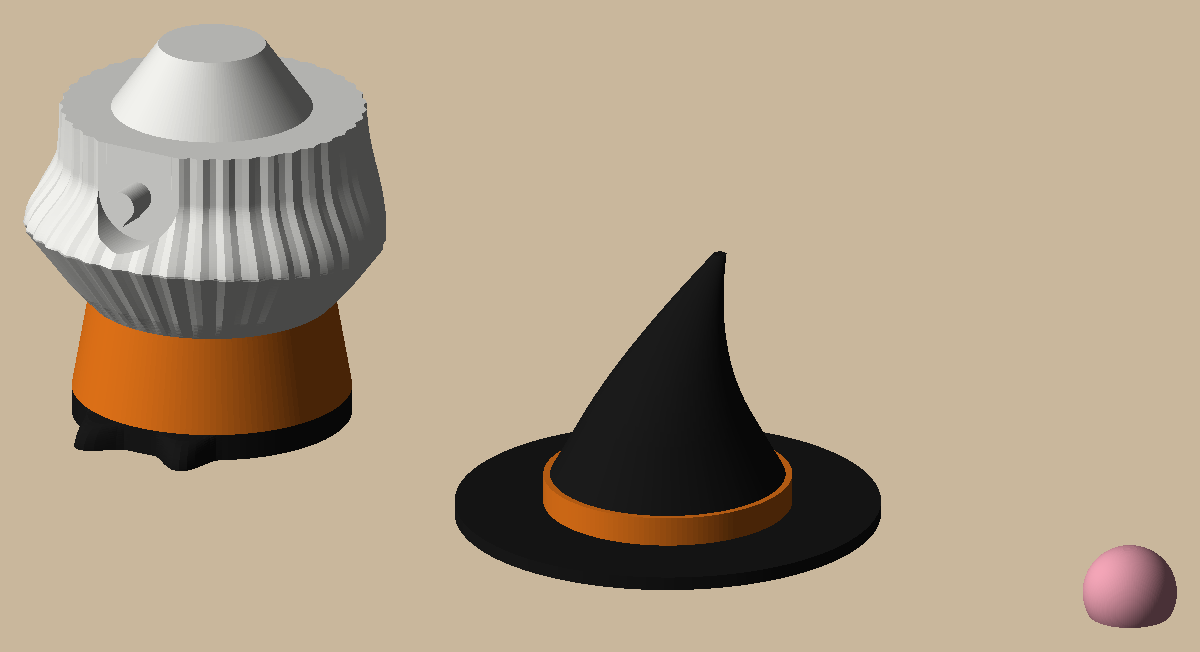
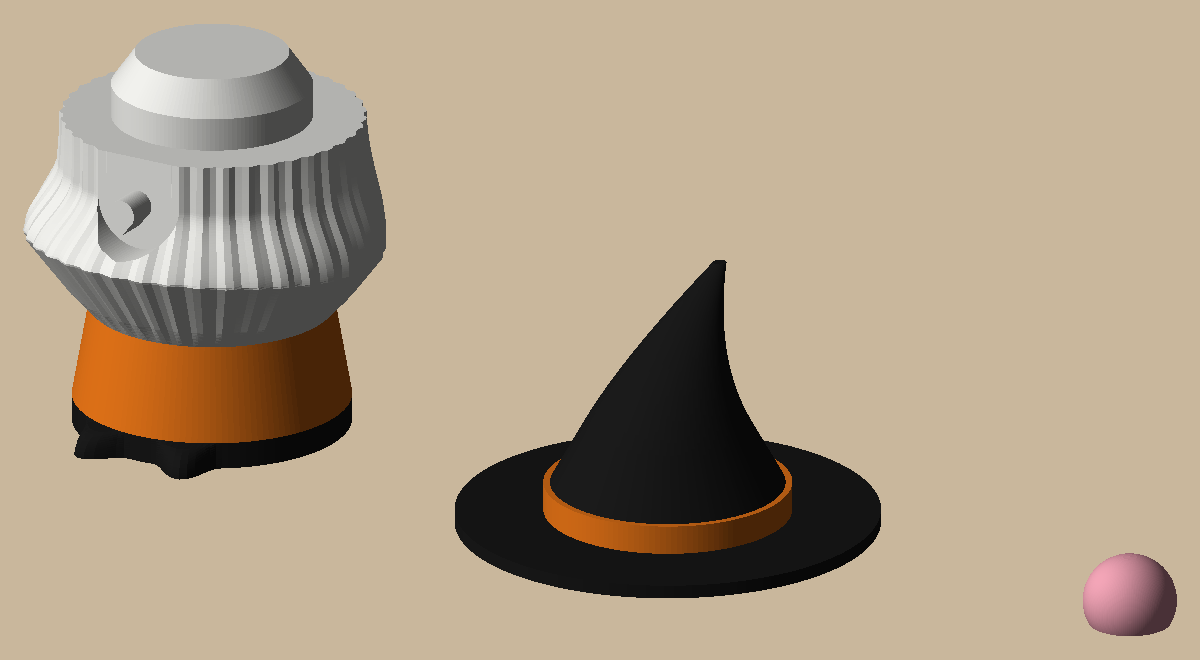
Halloween gnome: hat grips on a straight collar, chamfered hole mouths (pre-print review)

diff --git a/examples/halloween-gnome/halloween_gnome/gnome.py b/examples/halloween-gnome/halloween_gnome/gnome.py
@@ -164,16 +164,23 @@ def peg(p: Params) -> Mesh:
 
 def head(p: Params) -> Mesh:
     zs = levels(p.shoulder_h - 0.4, p.shoulder_h + p.head_h, p.dz)  # sunk into the shoulder: one solid
-    tan = math.tan(math.radians(p.head_angle))
-    return stack([circle(p.head_r - max(0.0, z - p.shoulder_h) * tan, z, p.ring) for z in zs], "head")
+    return stack([circle(min(p.head_r, socket_r(p, z - p.shoulder_h)), z, p.ring) for z in zs], "head")
+
+
+def mouth(p: Params, size, z0: float) -> list:
+    """The bottom rings of a hole whose mouth is on the bed: size(grow) is its section grown by grow, under the
+    bed at z0, on it, and back to size p.mouth_rise up."""
+    return [size(p.mouth_run * (1 - z0 / p.mouth_rise)), size(p.mouth_run), size(0.0)], [z0, 0.0, p.mouth_rise]
 
 
 def tree_hole(p: Params) -> Mesh:
     r = p.hole_d / 2
     tan = math.tan(math.radians(p.hole_roof))
     apex = p.hole_depth + r / tan
-    zs = np.r_[-0.5, levels(p.hole_depth, apex - p.dz, p.dz)]
-    return stack([circle(r - max(0.0, z - p.hole_depth) * tan, z, p.ring) for z in zs], "hole", (0, 0, apex))
+    sizes, zs = mouth(p, lambda g: r + g, -0.5)
+    rings = [circle(rr, z, p.ring) for rr, z in zip(sizes, zs)]
+    rings += [circle(r - (z - p.hole_depth) * tan, z, p.ring) for z in levels(p.hole_depth, apex - p.dz, p.dz)]
+    return stack(rings, "hole", (0, 0, apex))
 
 
 @lru_cache
@@ -203,13 +210,21 @@ def crown(p: Params, z: float) -> tuple[float, float]:
 
 
 def socket_r(p: Params, z: float) -> float:
-    return p.head_r - z * math.tan(math.radians(p.head_angle))
+    """The socket's radius z above the brim's underside (the head's, z above the shoulder): the collar, then the
+    cone."""
+    return p.head_r - max(0.0, z - p.head_collar) * math.tan(math.radians(p.head_angle))
+
+
+def socket_apex(p: Params) -> float:
+    return p.head_collar + p.head_r / math.tan(math.radians(p.head_angle))
 
 
 def socket(p: Params) -> Mesh:
-    apex = p.head_r / math.tan(math.radians(p.head_angle))
-    return stack([circle(socket_r(p, z), z, p.ring) for z in np.r_[-0.5, levels(0, apex - p.dz, p.dz)]],
-                 apex=(0, 0, apex))
+    apex = socket_apex(p)
+    sizes, zs = mouth(p, lambda g: p.head_r + g, -0.5)
+    rings = [circle(r, z, p.ring) for r, z in zip(sizes, zs)]
+    rings += [circle(socket_r(p, z), z, p.ring) for z in levels(p.head_collar, apex - p.dz, p.dz)]
+    return stack(rings, apex=(0, 0, apex))
 
 
 @lru_cache
@@ -241,7 +256,8 @@ def nose_hole(p: Params) -> Mesh:
     depth = p.peg_len + p.peg_room
     far = np.hypot(shape[:, 0], shape[:, 1]).max()  # the teardrop's point, from the round's centre
     rise = far / p.flare
-    rings = [np.c_[shape, np.full(len(shape), -0.5)]]
+    sizes, zs = mouth(p, lambda g: teardrop(p.peg_r + p.nose_fit / 2 + g, p.peg_angle), -0.5)
+    rings = [np.c_[s, np.full(len(s), z)] for s, z in zip(sizes, zs)]
     for z in levels(depth, depth + rise - p.dz, p.dz):
         rings.append(np.c_[shape * (1 - (z - depth) / rise), np.full(len(shape), z)])
     return stack(rings, apex=(0, 0, depth + rise))

diff --git a/examples/halloween-gnome/tests/test_gnome.py b/examples/halloween-gnome/tests/test_gnome.py
@@ -81,7 +81,7 @@ def test_tree_hole_is_half_an_inch_and_goes_up_to_its_roof():
 
 def test_hat_wall_round_the_socket():
     """The crown leans back; the socket stays inside it with p.hat_wall all round."""
-    for z in np.arange(P.brim_t + P.band_h, P.head_r / math.tan(math.radians(P.head_angle)), 0.2):
+    for z in np.arange(P.brim_t + P.band_h, gnome.socket_apex(P), 0.2):
         c, r = gnome.crown(P, z)
         assert r - abs(c) - gnome.socket_r(P, z) >= P.hat_wall, z
 
@@ -162,3 +162,31 @@ def test_slicer_prints_each_colour_band_once(tmp_path, name, bands):
     assert [r[0] for r in report["layers"]] == [(b,) for b in bands]
     top = {"body": P.shoulder_h + P.head_h, "hat": P.hat_h, "nose": P.nose_back + P.nose_r}[name]
     assert report["layers"][-1][2] + 1 == pytest.approx(top / P.printer.layer, abs=1)
+
+
+def test_hat_grips_on_a_straight_collar():
+    """A 35-degree cone can't hold by friction (tan 35 > PLA's ~0.3): the head and socket share a straight collar
+    p.head_collar tall at head_r, a press fit, and taper above it."""
+    head = gnome.head(P)
+    for z in (0.6, P.head_collar - 0.1):
+        probe = Pos(-20, -20, P.shoulder_h + z) * Box(40, 40, 0.01, align=MIN)
+        assert (head & probe).volume / 0.01 == pytest.approx(math.pi * P.head_r ** 2, rel=0.002)
+        assert gnome.socket_r(P, z) == pytest.approx(P.head_r)
+    assert gnome.socket_r(P, P.head_collar + 1) < P.head_r
+    assert P.head_collar >= 2.0
+
+
+def test_hole_mouths_are_chamfered():
+    """The first layer squishes out: every hole's mouth flares by p.mouth_run, closing to size p.mouth_rise up."""
+    z = 0.05
+    flare = 2 * P.mouth_run * (1 - (z + 0.1) / P.mouth_rise)  # the slab's top, where the hole is narrowest
+    hat, body, nose = Mesh.union(gnome.hat(P)), Mesh.union(gnome.body(P)), gnome.nose(P)
+    for m, size in ((hat, 2 * P.head_r), (body, P.hole_d), (nose, 2 * P.peg_r)):
+        assert hole_width(m, z) == pytest.approx(size + flare, abs=0.03)
+        assert hole_width(m, P.mouth_rise + 0.1) == pytest.approx(size, abs=0.03)
+
+
+def hole_width(m: Mesh, z: float) -> float:
+    """The gap across the axis in a slab from z to z + 0.1."""
+    pieces = sorted((m & slab(z)).solids(), key=lambda s: s.bounding_box().min.X)
+    return pieces[1].bounding_box().min.X - pieces[0].bounding_box().max.X

diff --git a/examples/halloween-gnome/halloween_gnome/params.py b/examples/halloween-gnome/halloween_gnome/params.py
@@ -43,7 +43,10 @@ class Params:
 
     head_r: float = 9.0  # the head cone at the shoulder: the hat's socket fits over it, no clearance
     head_h: float = 6.0
-    head_angle: float = 35.0  # deg from vertical, the head's sides and the socket's
+    head_angle: float = 35.0  # deg from vertical, the head's sides and the socket's, above...
+    head_collar: float = 3.0  # ... a straight collar at head_r that grips (a 35-degree cone alone slides off)
+    mouth_run: float = 0.3  # every hole's mouth on the bed flares out this much, closing to size mouth_rise up:
+    mouth_rise: float = 0.4  # the first layer's squish never makes it the tightest point of a fit
 
     # the hat (its own z: brim on the bed)
     brim_r: float = 19.0

diff --git a/examples/halloween-gnome/README.md b/examples/halloween-gnome/README.md
@@ -6,10 +6,12 @@ A 2" witch-hat gnome for the top of a mini Christmas tree: the tree's tip goes u
 prints in three pieces with no supports, then presses together, no glue:
 
 - **Body:** black boots, orange robe, white beard and hair (2 colour changes). The hole runs 18 mm up the middle.
-- **Hat:** printed brim down: black brim, orange band, black crooked crown (2 colour changes). Its cone socket
-  pushes down over the head.
+- **Hat:** printed brim down: black brim, orange band, black crooked crown (2 colour changes). Its socket
+  pushes down over the head and grips on a 3 mm straight collar.
 - **Nose:** pink, presses onto the teardrop peg on the face (point down). There's no clearance on either fit, so
   it's a squeeze.
+
+Put the nose on first, then the hat: the brim reaches out over the nose.
 
 AMS: 1 orange, 2 white, 3 black, 4 pink, all PLA. About 16 g of filament in total.
 

diff --git a/examples/halloween-gnome/docs/specs/halloween-gnome.md b/examples/halloween-gnome/docs/specs/halloween-gnome.md
@@ -22,4 +22,9 @@ A 2" (50.8 mm) witch-hat gnome that sits on top of a mini Christmas tree through
 
 ## Amendments
 
-(none yet)
+- **2026-10-29, after the pre-print review:**
+  - A 35-degree cone can't hold by friction (tan 35° = 0.70, against about 0.3 for PLA on PLA), so the hat would
+    sit loose. The head and the socket now share a 3 mm straight collar at Ø18, a press fit, and taper above it.
+  - Every hole's mouth on the bed (the tree hole, the hat socket, the nose hole) flares 0.3 mm, closing to size
+    0.4 mm up, so first-layer squish never makes the mouth the tightest point of a zero-clearance fit.
+  - Assembly order: the nose first, then the hat (the brim reaches out over the nose).
